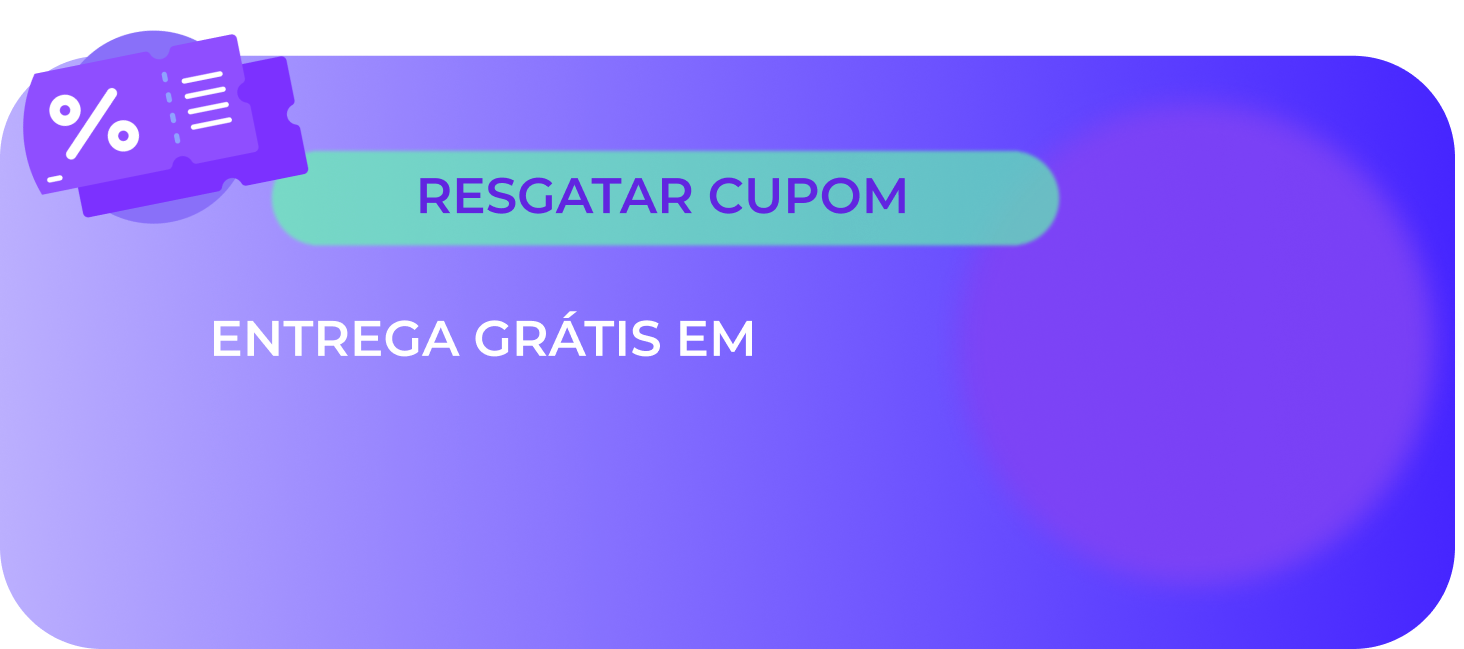
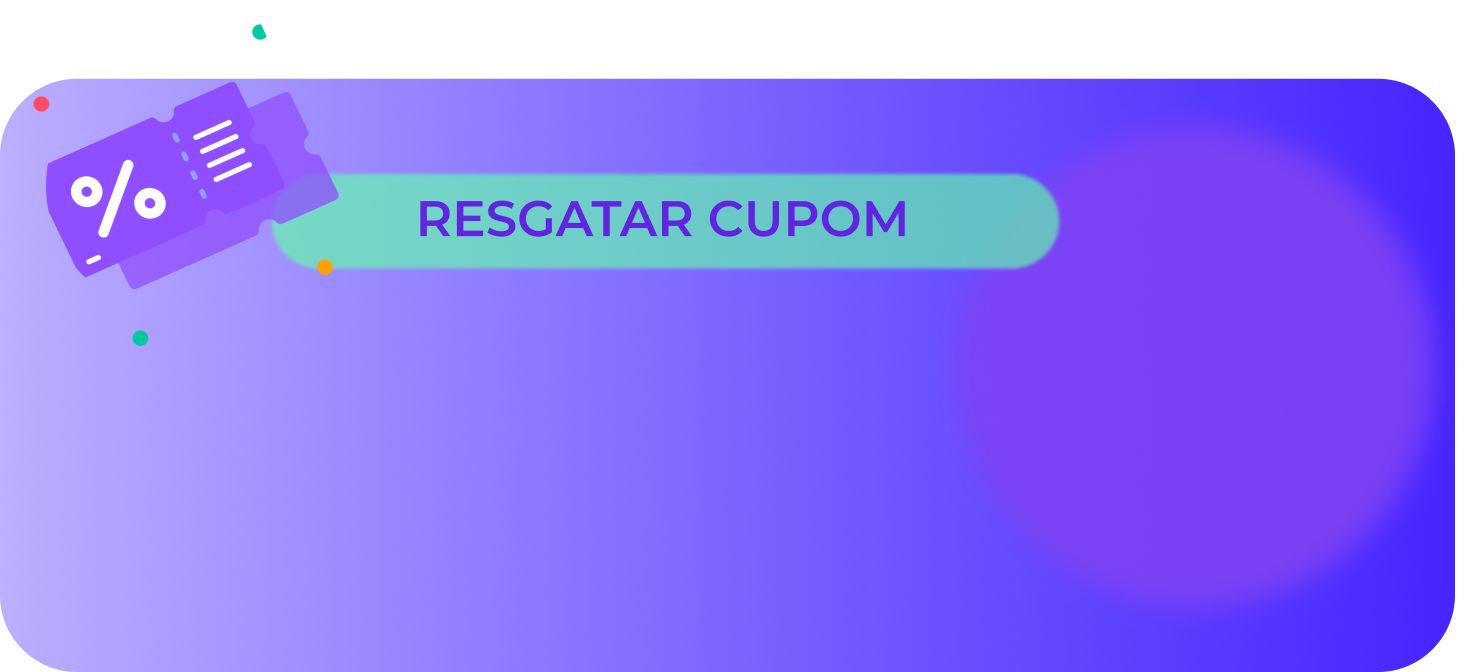
scanner delimiter

diff --git a/src/appCustomer/src/screens/Scanner/Index.jsx.jsx b/src/appCustomer/src/screens/Scanner/Index.jsx.jsx
@@ -34,12 +34,28 @@ export default function Scanner({ navigation }) {
         return <Text>No access to camera</Text>;
     }
 
+    const delimiterSize = Dimensions.get('window').width / 1.8;
+
     return (
         <View style={styles.container}>
             <BarCodeScanner
                 onBarCodeScanned={handleBarCodeScanned}
                 style={styles.camera}
             />
+            <View style={styles.overlay}>
+                <View
+                    style={{
+                        width: delimiterSize,
+                        height: delimiterSize,
+                        borderWidth: 2, // Espessura da borda
+                        borderColor: '#FFF', // Cor da borda transparente
+                        borderStyle: 'solid',
+                        position: 'absolute',
+                        top: -580,
+                        left: 95,
+                    }}
+                />
+            </View>
         </View>
     );
 }
@@ -51,10 +67,14 @@ const styles = StyleSheet.create({
         justifyContent: 'center',
         alignItems: 'center',
     },
+    overlay: {
+        flex: 1,
+        width: '100%',
+        height: '100%',
+    },
     camera: {
         width: 2.2 * Dimensions.get('window').width,
         aspectRatio: 1 / 1,
         backgroundColor: 'orange',
     },
-    reScan: {},
 });

diff --git a/src/appCustomer/src/components/Voucher/Index.jsx b/src/appCustomer/src/components/Voucher/Index.jsx
@@ -8,7 +8,7 @@ import {
 } from 'react-native';
 import voucherBackground from '../../assets/vouchers/Voucher.png';
 
-export default function Voucher({ voucherImage, voucherTitle }) {
+export default function Voucher({ voucherImage, product, voucherTitle }) {
     const { width } = useWindowDimensions();
 
     return (
@@ -28,7 +28,8 @@ export default function Voucher({ voucherImage, voucherTitle }) {
                 source={{ uri: voucherImage }} // Sua imagem por cima
                 style={styles.overlayImage}
             />
-            <Text style={styles.Text}>{voucherTitle.toUpperCase()}</Text>
+            <Text style={styles.titleText}>{voucherTitle.toUpperCase()}</Text>
+            <Text style={styles.productText}>{product.toUpperCase()}</Text>
         </View>
     );
 }
@@ -45,7 +46,14 @@ const styles = StyleSheet.create({
         bottom: '14%',
         right: '8%',
     },
-    Text: {
+    titleText: {
+        position: 'absolute',
+        bottom: '42%',
+        left: '14%',
+        fontSize: 15,
+        color: '#FFF',
+    },
+    productText: {
         position: 'absolute',
         bottom: '26%',
         left: '14%',

diff --git a/src/appCustomer/src/components/Topic/Index.jsx b/src/appCustomer/src/components/Topic/Index.jsx
@@ -85,7 +85,8 @@ export default function Topic({ data, title }) {
                         >
                             <Voucher
                                 voucherImage={item.image}
-                                voucherTitle={item.title}
+                                product={item.title}
+                                voucherTitle={title}
                             />
                         </TouchableOpacity>
                     )}

diff --git a/src/appCustomer/src/screens/Home/index.jsx b/src/appCustomer/src/screens/Home/index.jsx
@@ -27,7 +27,7 @@ export default function Home({ navigation }) {
                     spacing={4}
                     data={categoriesSlides}
                 />
-                <Topic data={voucherSlides} title="Programa Fidelidade" />
+                <Topic data={voucherSlides} title="Entrega Grátis" />
                 <Topic data={voucherSlides} title="Favoritos" />
             </ScrollView>
             <BottomBar navigation={navigation} />

diff --git a/src/appCustomer/src/assets/arrays/vouchers.js b/src/appCustomer/src/assets/arrays/vouchers.js
@@ -2,7 +2,7 @@ export default [
     {
         id: 1,
         title: 'hambúrguer',
-        image: 'https://i.imgur.com/K5TUAj5.png',
+        image: 'https://imgur.com/iTws7ZQ.png',
     },
     {
         id: 2,
